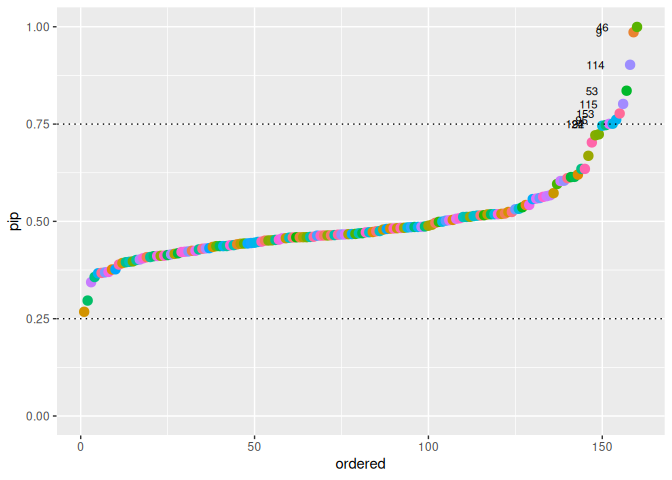
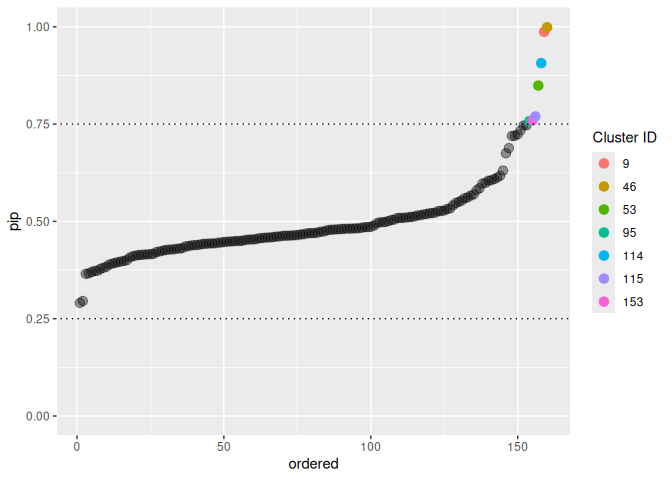
update README with new plot function. update plot help file with pip_level

diff --git a/README.md b/README.md
@@ -47,14 +47,22 @@ Separate within- from between-school effects. That is, besides
     saeb$school_ses <- c(scale(saeb$school_ses, scale = FALSE))
 
     head(saeb )
-    #>    school_id public student_ses math_proficiency location school_ses i.school_ses
-    #>        <num>  <int>       <num>            <num>    <int>      <num>        <num>
-    #> 1:         1      1        3.81         0.094789        1 -0.3717212     4.557222
-    #> 2:         1      1        4.59         1.518185        1 -0.3717212     4.557222
-    #> 3:         1      1        5.21        -0.474808        1 -0.3717212     4.557222
-    #> 4:         1      1        6.10         0.187490        1 -0.3717212     4.557222
-    #> 5:         1      1        5.37         0.730355        1 -0.3717212     4.557222
-    #> 6:         1      1        4.51         0.585839        1 -0.3717212     4.557222
+    #>    school_id public student_ses math_proficiency location school_ses i.school_ses i.school_ses.1
+    #>        <num>  <int>       <num>            <num>    <int>      <num>        <num>          <num>
+    #> 1:         1      1        3.81         0.094789        1 -0.3717212     4.557222       4.557222
+    #> 2:         1      1        4.59         1.518185        1 -0.3717212     4.557222       4.557222
+    #> 3:         1      1        5.21        -0.474808        1 -0.3717212     4.557222       4.557222
+    #> 4:         1      1        6.10         0.187490        1 -0.3717212     4.557222       4.557222
+    #> 5:         1      1        5.37         0.730355        1 -0.3717212     4.557222       4.557222
+    #> 6:         1      1        4.51         0.585839        1 -0.3717212     4.557222       4.557222
+    #>    i.school_ses.2
+    #>             <num>
+    #> 1:       4.557222
+    #> 2:       4.557222
+    #> 3:       4.557222
+    #> 4:       4.557222
+    #> 5:       4.557222
+    #> 6:       4.557222
 
 Illustration of school level variability:
 
@@ -193,7 +201,7 @@ both location and scale follow `lme4` notation.
     #>   - ss[]  (320 elements)
     #> |-------------|-------------|-------------|-------------|
     #> |-------------------------------------------------------|
-    #>   [Warning] There are 4 individual pWAIC values that are greater than 0.4. This may indicate that the WAIC estimate is unstable (Vehtari et al., 2017), at least in cases without grouping of data nodes or multivariate data nodes.
+    #>   [Warning] There are 5 individual pWAIC values that are greater than 0.4. This may indicate that the WAIC estimate is unstable (Vehtari et al., 2017), at least in cases without grouping of data nodes or multivariate data nodes.
     #> Defining model
     #> Building model
     #> Setting data and initial values
@@ -231,11 +239,11 @@ readily interpreted as Bayes Factors.
 
     s_out <- summary(out)
     #> List of 6
-    #>  $ statistics: num [1:656, 1:4] 1 -0.795 -0.795 1 -0.274 ...
+    #>  $ statistics: num [1:656, 1:4] 1 -0.712 -0.712 1 -0.297 ...
     #>   ..- attr(*, "dimnames")=List of 2
     #>   .. ..$ : chr [1:656] "R[1, 1]" "R[2, 1]" "R[1, 2]" "R[2, 2]" ...
     #>   .. ..$ : chr [1:4] "Mean" "SD" "Naive SE" "Time-series SE"
-    #>  $ quantiles : num [1:656, 1:5] 1 -0.997 -0.997 1 -0.378 ...
+    #>  $ quantiles : num [1:656, 1:5] 1 -0.99 -0.99 1 -0.473 ...
     #>   ..- attr(*, "dimnames")=List of 2
     #>   .. ..$ : chr [1:656] "R[1, 1]" "R[2, 1]" "R[1, 2]" "R[2, 2]" ...
     #>   .. ..$ : chr [1:5] "2.5%" "25%" "50%" "75%" ...
@@ -248,153 +256,153 @@ readily interpreted as Bayes Factors.
     #> Chains/workers: 4 
     #> 
     #>                    Mean    SD Time-series SE   2.5%    50%  97.5% R-hat
-    #> R[2, 1]          -0.795 0.181          0.025 -0.997 -0.843 -0.385 1.077
-    #> beta[1]          -0.274 0.054          0.004 -0.378 -0.276 -0.169 1.045
-    #> beta[2]           0.082 0.010          0.001  0.063  0.082  0.101 1.045
-    #> beta[3]           0.630 0.220          0.016  0.193  0.635  1.053 1.049
-    #> beta[4]          -0.008 0.041          0.003 -0.085 -0.008  0.071 1.043
-    #> sigma_rand[1, 1]  0.208 0.023          0.002  0.171  0.206  0.261 1.019
-    #> sigma_rand[2, 2]  0.240 0.257          0.048  0.071  0.152  1.177 1.158
-    #> ss[2, 1]          0.464 0.499          0.004  0.000  0.000  1.000 1.000
-    #> ss[2, 2]          0.464 0.499          0.004  0.000  0.000  1.000 1.000
-    #> ss[2, 3]          0.451 0.498          0.005  0.000  0.000  1.000 1.000
-    #> ss[2, 4]          0.496 0.500          0.005  0.000  0.000  1.000 1.000
-    #> ss[2, 5]          0.520 0.500          0.007  0.000  1.000  1.000 1.001
-    #> ss[2, 6]          0.408 0.491          0.005  0.000  0.000  1.000 1.000
-    #> ss[2, 7]          0.424 0.494          0.006  0.000  0.000  1.000 1.001
-    #> ss[2, 8]          0.459 0.498          0.004  0.000  0.000  1.000 1.000
-    #> ss[2, 9]          0.986 0.118          0.004  1.000  1.000  1.000 1.001
-    #> ss[2, 10]         0.441 0.497          0.004  0.000  0.000  1.000 1.000
-    #> ss[2, 11]         0.542 0.498          0.004  0.000  1.000  1.000 1.000
-    #> ss[2, 12]         0.376 0.484          0.005  0.000  0.000  1.000 1.001
-    #> ss[2, 13]         0.473 0.499          0.007  0.000  0.000  1.000 1.002
-    #> ss[2, 14]         0.620 0.485          0.008  0.000  1.000  1.000 1.003
-    #> ss[2, 15]         0.504 0.500          0.004  0.000  1.000  1.000 1.000
-    #> ss[2, 16]         0.482 0.500          0.004  0.000  0.000  1.000 1.000
-    #> ss[2, 17]         0.434 0.496          0.004  0.000  0.000  1.000 1.001
-    #> ss[2, 18]         0.524 0.499          0.004  0.000  1.000  1.000 1.000
-    #> ss[2, 19]         0.268 0.443          0.006  0.000  0.000  1.000 1.001
-    #> ss[2, 20]         0.519 0.500          0.004  0.000  1.000  1.000 1.000
-    #> ss[2, 21]         0.393 0.488          0.006  0.000  0.000  1.000 1.001
-    #> ss[2, 22]         0.573 0.495          0.005  0.000  1.000  1.000 1.000
-    #> ss[2, 23]         0.482 0.500          0.005  0.000  0.000  1.000 1.000
-    #> ss[2, 24]         0.479 0.500          0.004  0.000  0.000  1.000 1.001
-    #> ss[2, 25]         0.457 0.498          0.004  0.000  0.000  1.000 1.000
-    #> ss[2, 26]         0.518 0.500          0.004  0.000  1.000  1.000 1.000
-    #> ss[2, 27]         0.442 0.497          0.004  0.000  0.000  1.000 1.000
-    #> ss[2, 28]         0.417 0.493          0.005  0.000  0.000  1.000 1.000
-    #> ss[2, 29]         0.491 0.500          0.005  0.000  0.000  1.000 1.000
-    #> ss[2, 30]         0.459 0.498          0.007  0.000  0.000  1.000 1.002
-    #> ss[2, 31]         0.467 0.499          0.004  0.000  0.000  1.000 1.000
-    #> ss[2, 32]         0.483 0.500          0.007  0.000  0.000  1.000 1.000
-    #> ss[2, 33]         0.489 0.500          0.005  0.000  0.000  1.000 1.000
+    #> R[2, 1]          -0.712 0.258          0.059 -0.990 -0.784 -0.082 1.234
+    #> beta[1]          -0.297 0.184          0.032 -0.473 -0.272 -0.155 1.040
+    #> beta[2]           0.081 0.011          0.001  0.060  0.081  0.103 1.039
+    #> beta[3]           0.624 0.311          0.030  0.059  0.654  1.050 1.045
+    #> beta[4]          -0.012 0.039          0.002 -0.087 -0.013  0.067 1.037
+    #> sigma_rand[1, 1]  0.240 0.164          0.032  0.173  0.211  0.476 1.097
+    #> sigma_rand[2, 2]  0.187 0.144          0.022  0.064  0.131  0.608 1.249
+    #> ss[2, 1]          0.470 0.499          0.004  0.000  0.000  1.000 1.000
+    #> ss[2, 2]          0.474 0.499          0.004  0.000  0.000  1.000 1.000
+    #> ss[2, 3]          0.443 0.497          0.004  0.000  0.000  1.000 1.000
+    #> ss[2, 4]          0.466 0.499          0.006  0.000  0.000  1.000 1.000
+    #> ss[2, 5]          0.527 0.499          0.006  0.000  1.000  1.000 1.000
+    #> ss[2, 6]          0.415 0.493          0.004  0.000  0.000  1.000 1.000
+    #> ss[2, 7]          0.428 0.495          0.006  0.000  0.000  1.000 1.002
+    #> ss[2, 8]          0.461 0.498          0.004  0.000  0.000  1.000 1.000
+    #> ss[2, 9]          0.987 0.113          0.003  1.000  1.000  1.000 1.001
+    #> ss[2, 10]         0.440 0.496          0.004  0.000  0.000  1.000 1.000
+    #> ss[2, 11]         0.548 0.498          0.005  0.000  1.000  1.000 1.001
+    #> ss[2, 12]         0.381 0.486          0.005  0.000  0.000  1.000 1.001
+    #> ss[2, 13]         0.471 0.499          0.008  0.000  0.000  1.000 1.003
+    #> ss[2, 14]         0.609 0.488          0.008  0.000  1.000  1.000 1.001
+    #> ss[2, 15]         0.499 0.500          0.004  0.000  0.000  1.000 1.000
+    #> ss[2, 16]         0.481 0.500          0.004  0.000  0.000  1.000 1.000
+    #> ss[2, 17]         0.439 0.496          0.004  0.000  0.000  1.000 1.000
+    #> ss[2, 18]         0.527 0.499          0.004  0.000  1.000  1.000 1.000
+    #> ss[2, 19]         0.296 0.456          0.007  0.000  0.000  1.000 1.003
+    #> ss[2, 20]         0.528 0.499          0.004  0.000  1.000  1.000 1.000
+    #> ss[2, 21]         0.373 0.484          0.006  0.000  0.000  1.000 1.003
+    #> ss[2, 22]         0.562 0.496          0.006  0.000  1.000  1.000 1.001
+    #> ss[2, 23]         0.486 0.500          0.006  0.000  0.000  1.000 1.000
+    #> ss[2, 24]         0.474 0.499          0.004  0.000  0.000  1.000 1.000
+    #> ss[2, 25]         0.450 0.497          0.004  0.000  0.000  1.000 1.000
+    #> ss[2, 26]         0.513 0.500          0.004  0.000  1.000  1.000 1.000
+    #> ss[2, 27]         0.446 0.497          0.004  0.000  0.000  1.000 1.000
+    #> ss[2, 28]         0.416 0.493          0.004  0.000  0.000  1.000 1.000
+    #> ss[2, 29]         0.481 0.500          0.005  0.000  0.000  1.000 1.001
+    #> ss[2, 30]         0.465 0.499          0.007  0.000  0.000  1.000 1.001
+    #> ss[2, 31]         0.470 0.499          0.004  0.000  0.000  1.000 1.000
+    #> ss[2, 32]         0.509 0.500          0.007  0.000  1.000  1.000 1.000
+    #> ss[2, 33]         0.481 0.500          0.005  0.000  0.000  1.000 1.000
     #> ss[2, 34]         0.512 0.500          0.004  0.000  1.000  1.000 1.000
-    #> ss[2, 35]         0.668 0.471          0.008  0.000  1.000  1.000 1.003
-    #> ss[2, 36]         0.412 0.492          0.008  0.000  0.000  1.000 1.003
-    #> ss[2, 37]         0.464 0.499          0.004  0.000  0.000  1.000 1.000
-    #> ss[2, 38]         0.451 0.498          0.004  0.000  0.000  1.000 1.000
-    #> ss[2, 39]         0.721 0.448          0.015  0.000  1.000  1.000 1.011
-    #> ss[2, 40]         0.451 0.498          0.004  0.000  0.000  1.000 1.000
-    #> ss[2, 41]         0.724 0.447          0.014  0.000  1.000  1.000 1.008
-    #> ss[2, 42]         0.459 0.498          0.005  0.000  0.000  1.000 1.000
+    #> ss[2, 35]         0.675 0.468          0.008  0.000  1.000  1.000 1.003
+    #> ss[2, 36]         0.415 0.493          0.008  0.000  0.000  1.000 1.003
+    #> ss[2, 37]         0.457 0.498          0.004  0.000  0.000  1.000 1.000
+    #> ss[2, 38]         0.460 0.498          0.004  0.000  0.000  1.000 1.000
+    #> ss[2, 39]         0.734 0.442          0.015  0.000  1.000  1.000 1.005
+    #> ss[2, 40]         0.444 0.497          0.004  0.000  0.000  1.000 1.000
+    #> ss[2, 41]         0.724 0.447          0.012  0.000  1.000  1.000 1.008
+    #> ss[2, 42]         0.452 0.498          0.005  0.000  0.000  1.000 1.000
     #> ss[2, 43]         0.397 0.489          0.005  0.000  0.000  1.000 1.001
     #> ss[2, 44]         0.436 0.496          0.004  0.000  0.000  1.000 1.000
-    #> ss[2, 45]         0.443 0.497          0.004  0.000  0.000  1.000 1.000
-    #> ss[2, 46]         1.000 0.021          0.000  1.000  1.000  1.000 1.000
-    #> ss[2, 47]         0.468 0.499          0.004  0.000  0.000  1.000 1.000
-    #> ss[2, 48]         0.596 0.491          0.005  0.000  1.000  1.000 1.000
-    #> ss[2, 49]         0.499 0.500          0.009  0.000  0.000  1.000 1.001
-    #> ss[2, 50]         0.516 0.500          0.004  0.000  1.000  1.000 1.000
-    #> ss[2, 51]         0.459 0.498          0.004  0.000  0.000  1.000 1.000
-    #> ss[2, 52]         0.536 0.499          0.004  0.000  1.000  1.000 1.000
-    #> ss[2, 53]         0.836 0.371          0.009  0.000  1.000  1.000 1.002
-    #> ss[2, 54]         0.614 0.487          0.006  0.000  1.000  1.000 1.001
-    #> ss[2, 55]         0.418 0.493          0.004  0.000  0.000  1.000 1.001
-    #> ss[2, 56]         0.470 0.499          0.005  0.000  0.000  1.000 1.000
-    #> ss[2, 57]         0.614 0.487          0.004  0.000  1.000  1.000 1.000
-    #> ss[2, 58]         0.413 0.492          0.004  0.000  0.000  1.000 1.000
-    #> ss[2, 59]         0.436 0.496          0.004  0.000  0.000  1.000 1.000
-    #> ss[2, 60]         0.518 0.500          0.004  0.000  1.000  1.000 1.000
-    #> ss[2, 61]         0.297 0.457          0.011  0.000  0.000  1.000 1.004
-    #> ss[2, 62]         0.411 0.492          0.004  0.000  0.000  1.000 1.000
-    #> ss[2, 63]         0.486 0.500          0.004  0.000  0.000  1.000 1.000
-    #> ss[2, 64]         0.747 0.435          0.005  0.000  1.000  1.000 1.001
-    #> ss[2, 65]         0.487 0.500          0.004  0.000  0.000  1.000 1.000
-    #> ss[2, 66]         0.635 0.481          0.005  0.000  1.000  1.000 1.000
-    #> ss[2, 67]         0.357 0.479          0.005  0.000  0.000  1.000 1.001
+    #> ss[2, 45]         0.447 0.497          0.004  0.000  0.000  1.000 1.000
+    #> ss[2, 46]         0.999 0.035          0.000  1.000  1.000  1.000 1.000
+    #> ss[2, 47]         0.464 0.499          0.004  0.000  0.000  1.000 1.001
+    #> ss[2, 48]         0.585 0.493          0.006  0.000  1.000  1.000 1.000
+    #> ss[2, 49]         0.478 0.500          0.009  0.000  0.000  1.000 1.002
+    #> ss[2, 50]         0.519 0.500          0.004  0.000  1.000  1.000 1.000
+    #> ss[2, 51]         0.461 0.499          0.004  0.000  0.000  1.000 1.000
+    #> ss[2, 52]         0.533 0.499          0.004  0.000  1.000  1.000 1.000
+    #> ss[2, 53]         0.849 0.358          0.008  0.000  1.000  1.000 1.002
+    #> ss[2, 54]         0.606 0.489          0.007  0.000  1.000  1.000 1.001
+    #> ss[2, 55]         0.412 0.492          0.004  0.000  0.000  1.000 1.002
+    #> ss[2, 56]         0.458 0.498          0.005  0.000  0.000  1.000 1.000
+    #> ss[2, 57]         0.617 0.486          0.004  0.000  1.000  1.000 1.000
+    #> ss[2, 58]         0.426 0.495          0.005  0.000  0.000  1.000 1.000
+    #> ss[2, 59]         0.445 0.497          0.004  0.000  0.000  1.000 1.000
+    #> ss[2, 60]         0.509 0.500          0.004  0.000  1.000  1.000 1.000
+    #> ss[2, 61]         0.290 0.454          0.009  0.000  0.000  1.000 1.002
+    #> ss[2, 62]         0.422 0.494          0.005  0.000  0.000  1.000 1.000
+    #> ss[2, 63]         0.485 0.500          0.004  0.000  0.000  1.000 1.000
+    #> ss[2, 64]         0.720 0.449          0.005  0.000  1.000  1.000 1.002
+    #> ss[2, 65]         0.477 0.499          0.004  0.000  0.000  1.000 1.000
+    #> ss[2, 66]         0.631 0.483          0.005  0.000  1.000  1.000 1.000
+    #> ss[2, 67]         0.365 0.481          0.005  0.000  0.000  1.000 1.002
     #> ss[2, 68]         0.395 0.489          0.006  0.000  0.000  1.000 1.001
-    #> ss[2, 69]         0.452 0.498          0.004  0.000  0.000  1.000 1.000
-    #> ss[2, 70]         0.428 0.495          0.008  0.000  0.000  1.000 1.002
-    #> ss[2, 71]         0.401 0.490          0.004  0.000  0.000  1.000 1.000
-    #> ss[2, 72]         0.408 0.492          0.005  0.000  0.000  1.000 1.002
-    #> ss[2, 73]         0.437 0.496          0.011  0.000  0.000  1.000 1.003
-    #> ss[2, 74]         0.511 0.500          0.005  0.000  1.000  1.000 1.000
-    #> ss[2, 75]         0.465 0.499          0.004  0.000  0.000  1.000 1.000
-    #> ss[2, 76]         0.460 0.498          0.004  0.000  0.000  1.000 1.000
-    #> ss[2, 77]         0.469 0.499          0.004  0.000  0.000  1.000 1.000
-    #> ss[2, 78]         0.439 0.496          0.004  0.000  0.000  1.000 1.001
-    #> ss[2, 79]         0.396 0.489          0.005  0.000  0.000  1.000 1.001
-    #> ss[2, 80]         0.511 0.500          0.004  0.000  1.000  1.000 1.000
-    #> ss[2, 81]         0.458 0.498          0.006  0.000  0.000  1.000 1.001
-    #> ss[2, 82]         0.514 0.500          0.005  0.000  1.000  1.000 1.000
-    #> ss[2, 83]         0.475 0.499          0.004  0.000  0.000  1.000 1.000
-    #> ss[2, 84]         0.515 0.500          0.004  0.000  1.000  1.000 1.000
-    #> ss[2, 85]         0.472 0.499          0.004  0.000  0.000  1.000 1.001
-    #> ss[2, 86]         0.532 0.499          0.005  0.000  1.000  1.000 1.001
-    #> ss[2, 87]         0.746 0.435          0.009  0.000  1.000  1.000 1.003
-    #> ss[2, 88]         0.484 0.500          0.005  0.000  0.000  1.000 1.000
-    #> ss[2, 89]         0.518 0.500          0.004  0.000  1.000  1.000 1.000
-    #> ss[2, 90]         0.499 0.500          0.004  0.000  0.000  1.000 1.000
-    #> ss[2, 91]         0.447 0.497          0.004  0.000  0.000  1.000 1.000
-    #> ss[2, 92]         0.751 0.432          0.007  0.000  1.000  1.000 1.003
-    #> ss[2, 93]         0.445 0.497          0.004  0.000  0.000  1.000 1.000
-    #> ss[2, 94]         0.486 0.500          0.004  0.000  0.000  1.000 1.000
-    #> ss[2, 95]         0.761 0.426          0.006  0.000  1.000  1.000 1.004
-    #> ss[2, 96]         0.436 0.496          0.004  0.000  0.000  1.000 1.002
-    #> ss[2, 97]         0.367 0.482          0.005  0.000  0.000  1.000 1.000
-    #> ss[2, 98]         0.467 0.499          0.005  0.000  0.000  1.000 1.001
-    #> ss[2, 99]         0.557 0.497          0.004  0.000  1.000  1.000 1.000
-    #> ss[2, 100]        0.443 0.497          0.004  0.000  0.000  1.000 1.000
-    #> ss[2, 101]        0.431 0.495          0.005  0.000  0.000  1.000 1.001
-    #> ss[2, 102]        0.480 0.500          0.011  0.000  0.000  1.000 1.009
-    #> ss[2, 103]        0.377 0.485          0.007  0.000  0.000  1.000 1.002
-    #> ss[2, 104]        0.444 0.497          0.004  0.000  0.000  1.000 1.000
+    #> ss[2, 69]         0.453 0.498          0.004  0.000  0.000  1.000 1.000
+    #> ss[2, 70]         0.442 0.497          0.007  0.000  0.000  1.000 1.000
+    #> ss[2, 71]         0.416 0.493          0.004  0.000  0.000  1.000 1.001
+    #> ss[2, 72]         0.391 0.488          0.005  0.000  0.000  1.000 1.002
+    #> ss[2, 73]         0.463 0.499          0.010  0.000  0.000  1.000 1.004
+    #> ss[2, 74]         0.509 0.500          0.005  0.000  1.000  1.000 1.001
+    #> ss[2, 75]         0.467 0.499          0.004  0.000  0.000  1.000 1.000
+    #> ss[2, 76]         0.459 0.498          0.004  0.000  0.000  1.000 1.000
+    #> ss[2, 77]         0.449 0.497          0.004  0.000  0.000  1.000 1.000
+    #> ss[2, 78]         0.441 0.496          0.004  0.000  0.000  1.000 1.000
+    #> ss[2, 79]         0.399 0.490          0.005  0.000  0.000  1.000 1.000
+    #> ss[2, 80]         0.504 0.500          0.004  0.000  1.000  1.000 1.000
+    #> ss[2, 81]         0.463 0.499          0.006  0.000  0.000  1.000 1.001
+    #> ss[2, 82]         0.516 0.500          0.006  0.000  1.000  1.000 1.001
+    #> ss[2, 83]         0.481 0.500          0.004  0.000  0.000  1.000 1.000
+    #> ss[2, 84]         0.503 0.500          0.004  0.000  1.000  1.000 1.000
+    #> ss[2, 85]         0.464 0.499          0.004  0.000  0.000  1.000 1.000
+    #> ss[2, 86]         0.521 0.500          0.005  0.000  1.000  1.000 1.001
+    #> ss[2, 87]         0.747 0.435          0.009  0.000  1.000  1.000 1.003
+    #> ss[2, 88]         0.482 0.500          0.005  0.000  0.000  1.000 1.001
+    #> ss[2, 89]         0.510 0.500          0.004  0.000  1.000  1.000 1.000
+    #> ss[2, 90]         0.489 0.500          0.004  0.000  0.000  1.000 1.000
+    #> ss[2, 91]         0.448 0.497          0.004  0.000  0.000  1.000 1.000
+    #> ss[2, 92]         0.720 0.449          0.010  0.000  1.000  1.000 1.006
+    #> ss[2, 93]         0.453 0.498          0.004  0.000  0.000  1.000 1.000
+    #> ss[2, 94]         0.484 0.500          0.004  0.000  0.000  1.000 1.000
+    #> ss[2, 95]         0.758 0.428          0.007  0.000  1.000  1.000 1.001
+    #> ss[2, 96]         0.428 0.495          0.004  0.000  0.000  1.000 1.000
+    #> ss[2, 97]         0.373 0.484          0.005  0.000  0.000  1.000 1.002
+    #> ss[2, 98]         0.457 0.498          0.005  0.000  0.000  1.000 1.000
+    #> ss[2, 99]         0.560 0.496          0.004  0.000  1.000  1.000 1.000
+    #> ss[2, 100]        0.448 0.497          0.004  0.000  0.000  1.000 1.000
+    #> ss[2, 101]        0.430 0.495          0.005  0.000  0.000  1.000 1.001
+    #> ss[2, 102]        0.498 0.500          0.010  0.000  0.000  1.000 1.004
+    #> ss[2, 103]        0.389 0.488          0.005  0.000  0.000  1.000 1.002
+    #> ss[2, 104]        0.436 0.496          0.004  0.000  0.000  1.000 1.002
     #> ss[2, 105]        0.485 0.500          0.004  0.000  0.000  1.000 1.000
-    #> ss[2, 106]        0.463 0.499          0.010  0.000  0.000  1.000 1.005
-    #> ss[2, 107]        0.502 0.500          0.005  0.000  1.000  1.000 1.001
-    #> ss[2, 108]        0.560 0.496          0.016  0.000  1.000  1.000 1.012
-    #> ss[2, 109]        0.531 0.499          0.004  0.000  1.000  1.000 1.000
-    #> ss[2, 110]        0.369 0.483          0.006  0.000  0.000  1.000 1.002
-    #> ss[2, 111]        0.423 0.494          0.007  0.000  0.000  1.000 1.003
-    #> ss[2, 112]        0.466 0.499          0.005  0.000  0.000  1.000 1.001
-    #> ss[2, 113]        0.604 0.489          0.004  0.000  1.000  1.000 1.000
-    #> ss[2, 114]        0.902 0.297          0.006  0.000  1.000  1.000 1.004
-    #> ss[2, 115]        0.802 0.399          0.009  0.000  1.000  1.000 1.004
-    #> ss[2, 116]        0.415 0.493          0.007  0.000  0.000  1.000 1.002
-    #> ss[2, 117]        0.431 0.495          0.004  0.000  0.000  1.000 1.000
-    #> ss[2, 118]        0.402 0.490          0.005  0.000  0.000  1.000 1.000
-    #> ss[2, 119]        0.486 0.500          0.004  0.000  0.000  1.000 1.000
-    #> ss[2, 120]        0.567 0.495          0.004  0.000  1.000  1.000 1.000
-    #> ss[2, 121]        0.344 0.475          0.005  0.000  0.000  1.000 1.000
-    #> ss[2, 122]        0.604 0.489          0.011  0.000  1.000  1.000 1.006
-    #> ss[2, 123]        0.565 0.496          0.004  0.000  1.000  1.000 1.001
-    #> ss[2, 124]        0.751 0.433          0.005  0.000  1.000  1.000 1.001
-    #> ss[2, 125]        0.466 0.499          0.005  0.000  0.000  1.000 1.000
-    #> ss[2, 126]        0.507 0.500          0.004  0.000  1.000  1.000 1.000
-    #> ss[2, 127]        0.558 0.497          0.004  0.000  1.000  1.000 1.000
-    #> ss[2, 128]        0.503 0.500          0.005  0.000  1.000  1.000 1.000
-    #> ss[2, 129]        0.424 0.494          0.004  0.000  0.000  1.000 1.000
-    #> ss[2, 130]        0.456 0.498          0.004  0.000  0.000  1.000 1.000
-    #> ss[2, 131]        0.542 0.498          0.004  0.000  1.000  1.000 1.000
-    #> ss[2, 132]        0.411 0.492          0.004  0.000  0.000  1.000 1.000
-    #> ss[2, 133]        0.370 0.483          0.004  0.000  0.000  1.000 1.000
-    #> ss[2, 134]        0.518 0.500          0.004  0.000  1.000  1.000 1.000
-    #> ss[2, 135]        0.422 0.494          0.004  0.000  0.000  1.000 1.000
+    #> ss[2, 106]        0.444 0.497          0.011  0.000  0.000  1.000 1.003
+    #> ss[2, 107]        0.501 0.500          0.005  0.000  1.000  1.000 1.000
+    #> ss[2, 108]        0.580 0.494          0.014  0.000  1.000  1.000 1.007
+    #> ss[2, 109]        0.532 0.499          0.004  0.000  1.000  1.000 1.000
+    #> ss[2, 110]        0.370 0.483          0.006  0.000  0.000  1.000 1.000
+    #> ss[2, 111]        0.424 0.494          0.008  0.000  0.000  1.000 1.002
+    #> ss[2, 112]        0.469 0.499          0.006  0.000  0.000  1.000 1.001
+    #> ss[2, 113]        0.599 0.490          0.004  0.000  1.000  1.000 1.001
+    #> ss[2, 114]        0.907 0.291          0.006  0.000  1.000  1.000 1.002
+    #> ss[2, 115]        0.769 0.421          0.011  0.000  1.000  1.000 1.011
+    #> ss[2, 116]        0.400 0.490          0.008  0.000  0.000  1.000 1.002
+    #> ss[2, 117]        0.439 0.496          0.004  0.000  0.000  1.000 1.001
+    #> ss[2, 118]        0.393 0.489          0.005  0.000  0.000  1.000 1.001
+    #> ss[2, 119]        0.495 0.500          0.004  0.000  0.000  1.000 1.000
+    #> ss[2, 120]        0.550 0.498          0.004  0.000  1.000  1.000 1.000
+    #> ss[2, 121]        0.366 0.482          0.005  0.000  0.000  1.000 1.000
+    #> ss[2, 122]        0.597 0.490          0.011  0.000  1.000  1.000 1.007
+    #> ss[2, 123]        0.554 0.497          0.004  0.000  1.000  1.000 1.000
+    #> ss[2, 124]        0.746 0.435          0.005  0.000  1.000  1.000 1.002
+    #> ss[2, 125]        0.478 0.500          0.005  0.000  0.000  1.000 1.001
+    #> ss[2, 126]        0.498 0.500          0.004  0.000  0.000  1.000 1.001
+    #> ss[2, 127]        0.566 0.496          0.004  0.000  1.000  1.000 1.001
+    #> ss[2, 128]        0.511 0.500          0.004  0.000  1.000  1.000 1.000
+    #> ss[2, 129]        0.421 0.494          0.004  0.000  0.000  1.000 1.001
+    #> ss[2, 130]        0.458 0.498          0.004  0.000  0.000  1.000 1.000
+    #> ss[2, 131]        0.541 0.498          0.004  0.000  1.000  1.000 1.000
+    #> ss[2, 132]        0.414 0.493          0.004  0.000  0.000  1.000 1.001
+    #> ss[2, 133]        0.384 0.486          0.004  0.000  0.000  1.000 1.001
+    #> ss[2, 134]        0.518 0.500          0.005  0.000  1.000  1.000 1.000
+    #> ss[2, 135]        0.427 0.495          0.004  0.000  0.000  1.000 1.000
     #>  [ reached getOption("max.print") -- omitted 29 rows ]
     #> 
-    #> WAIC: 27043.53 
-    #> elppd: -13362.09 
-    #> pWAIC: 159.6728
+    #> WAIC: 27045.53 
+    #> elppd: -13360.63 
+    #> pWAIC: 162.1385
 
 ## Plots
 
@@ -411,21 +419,7 @@ PIP vs. Within-cluster SD
 
 ### PIP vs. math achievement
 
-    avg_df <- aggregate(math_proficiency ~ school_id, data = saeb, FUN = mean)
-    avg_df$pip <- s_out[grep("^ss", rownames(s_out)), 1]
-
-    ggplot(avg_df, aes(x = math_proficiency, y = pip)) +
-      geom_point( aes(color = as.factor(school_id)), size = 3) +
-      geom_text(data = subset(avg_df, pip >= 0.75),
-                aes(label = school_id),
-                nudge_x = -.1,
-                size = 3) +
-      geom_abline(intercept = 0.75, slope = 0, lty =  3)+
-      geom_abline(intercept = 0.25, slope = 0, lty =  3)+
-      ylim(c(0, 1 ) ) + 
-      guides(color ="none") +
-      labs(x = "Math achievement (z-standardized)",
-           y = "pip")
+    plot(out, type =  "outcome")
 
 <img src="man/figures/README-unnamed-chunk-8-1.png" width="100%" />
 
